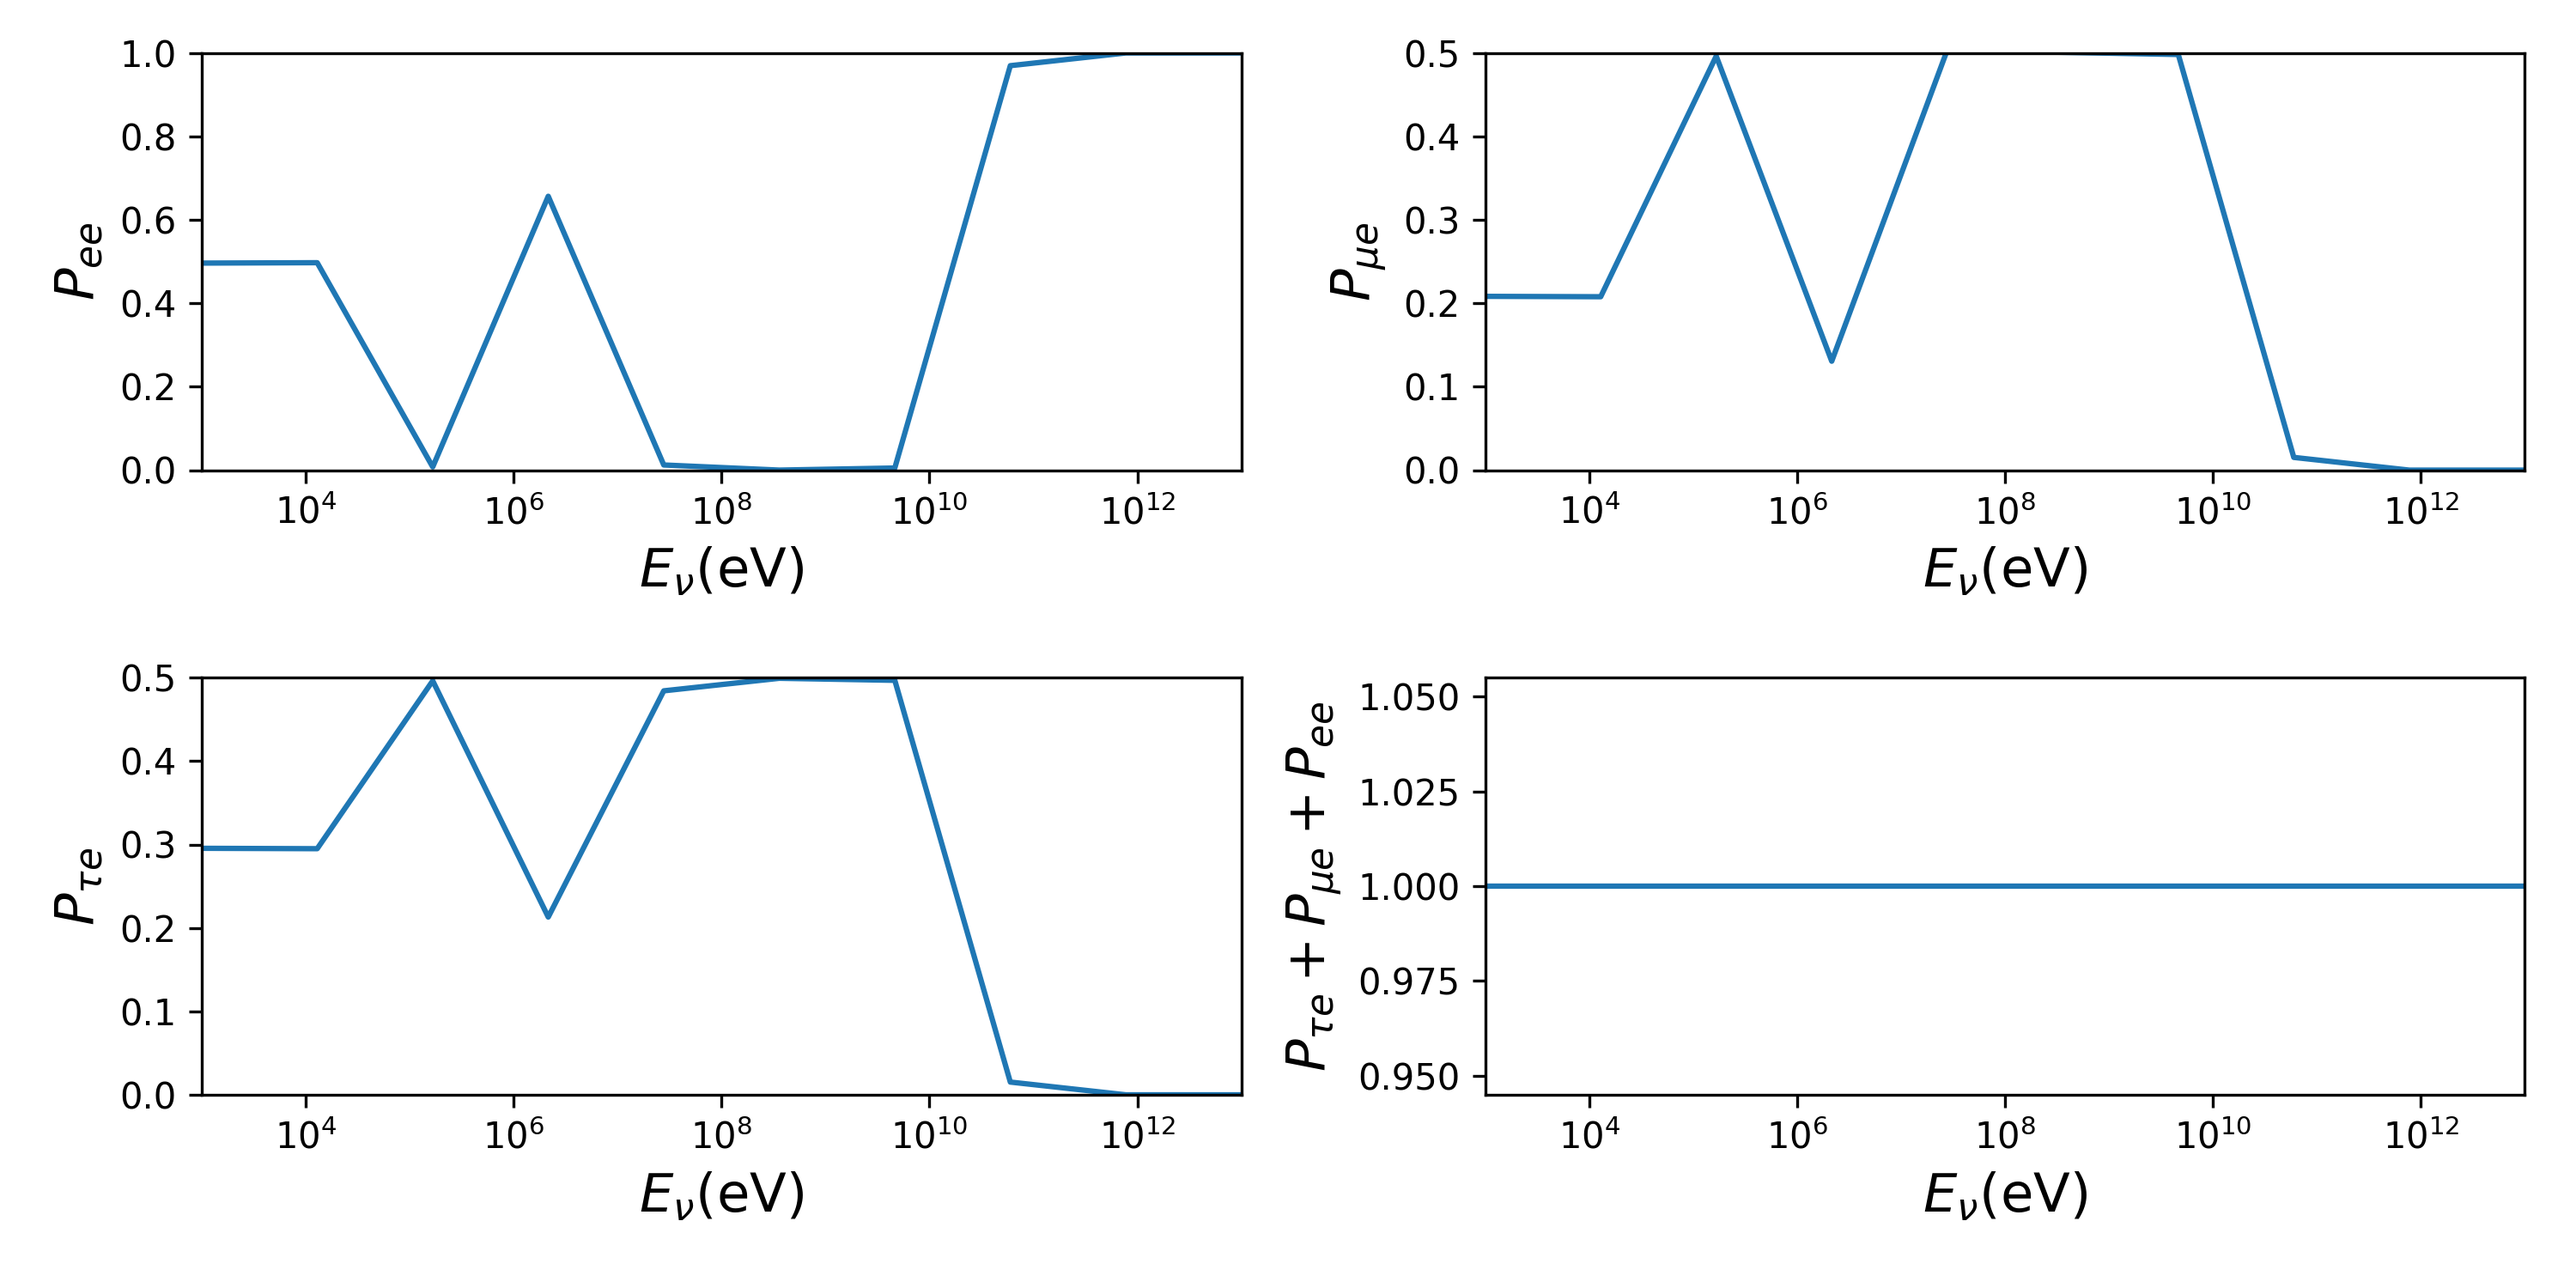
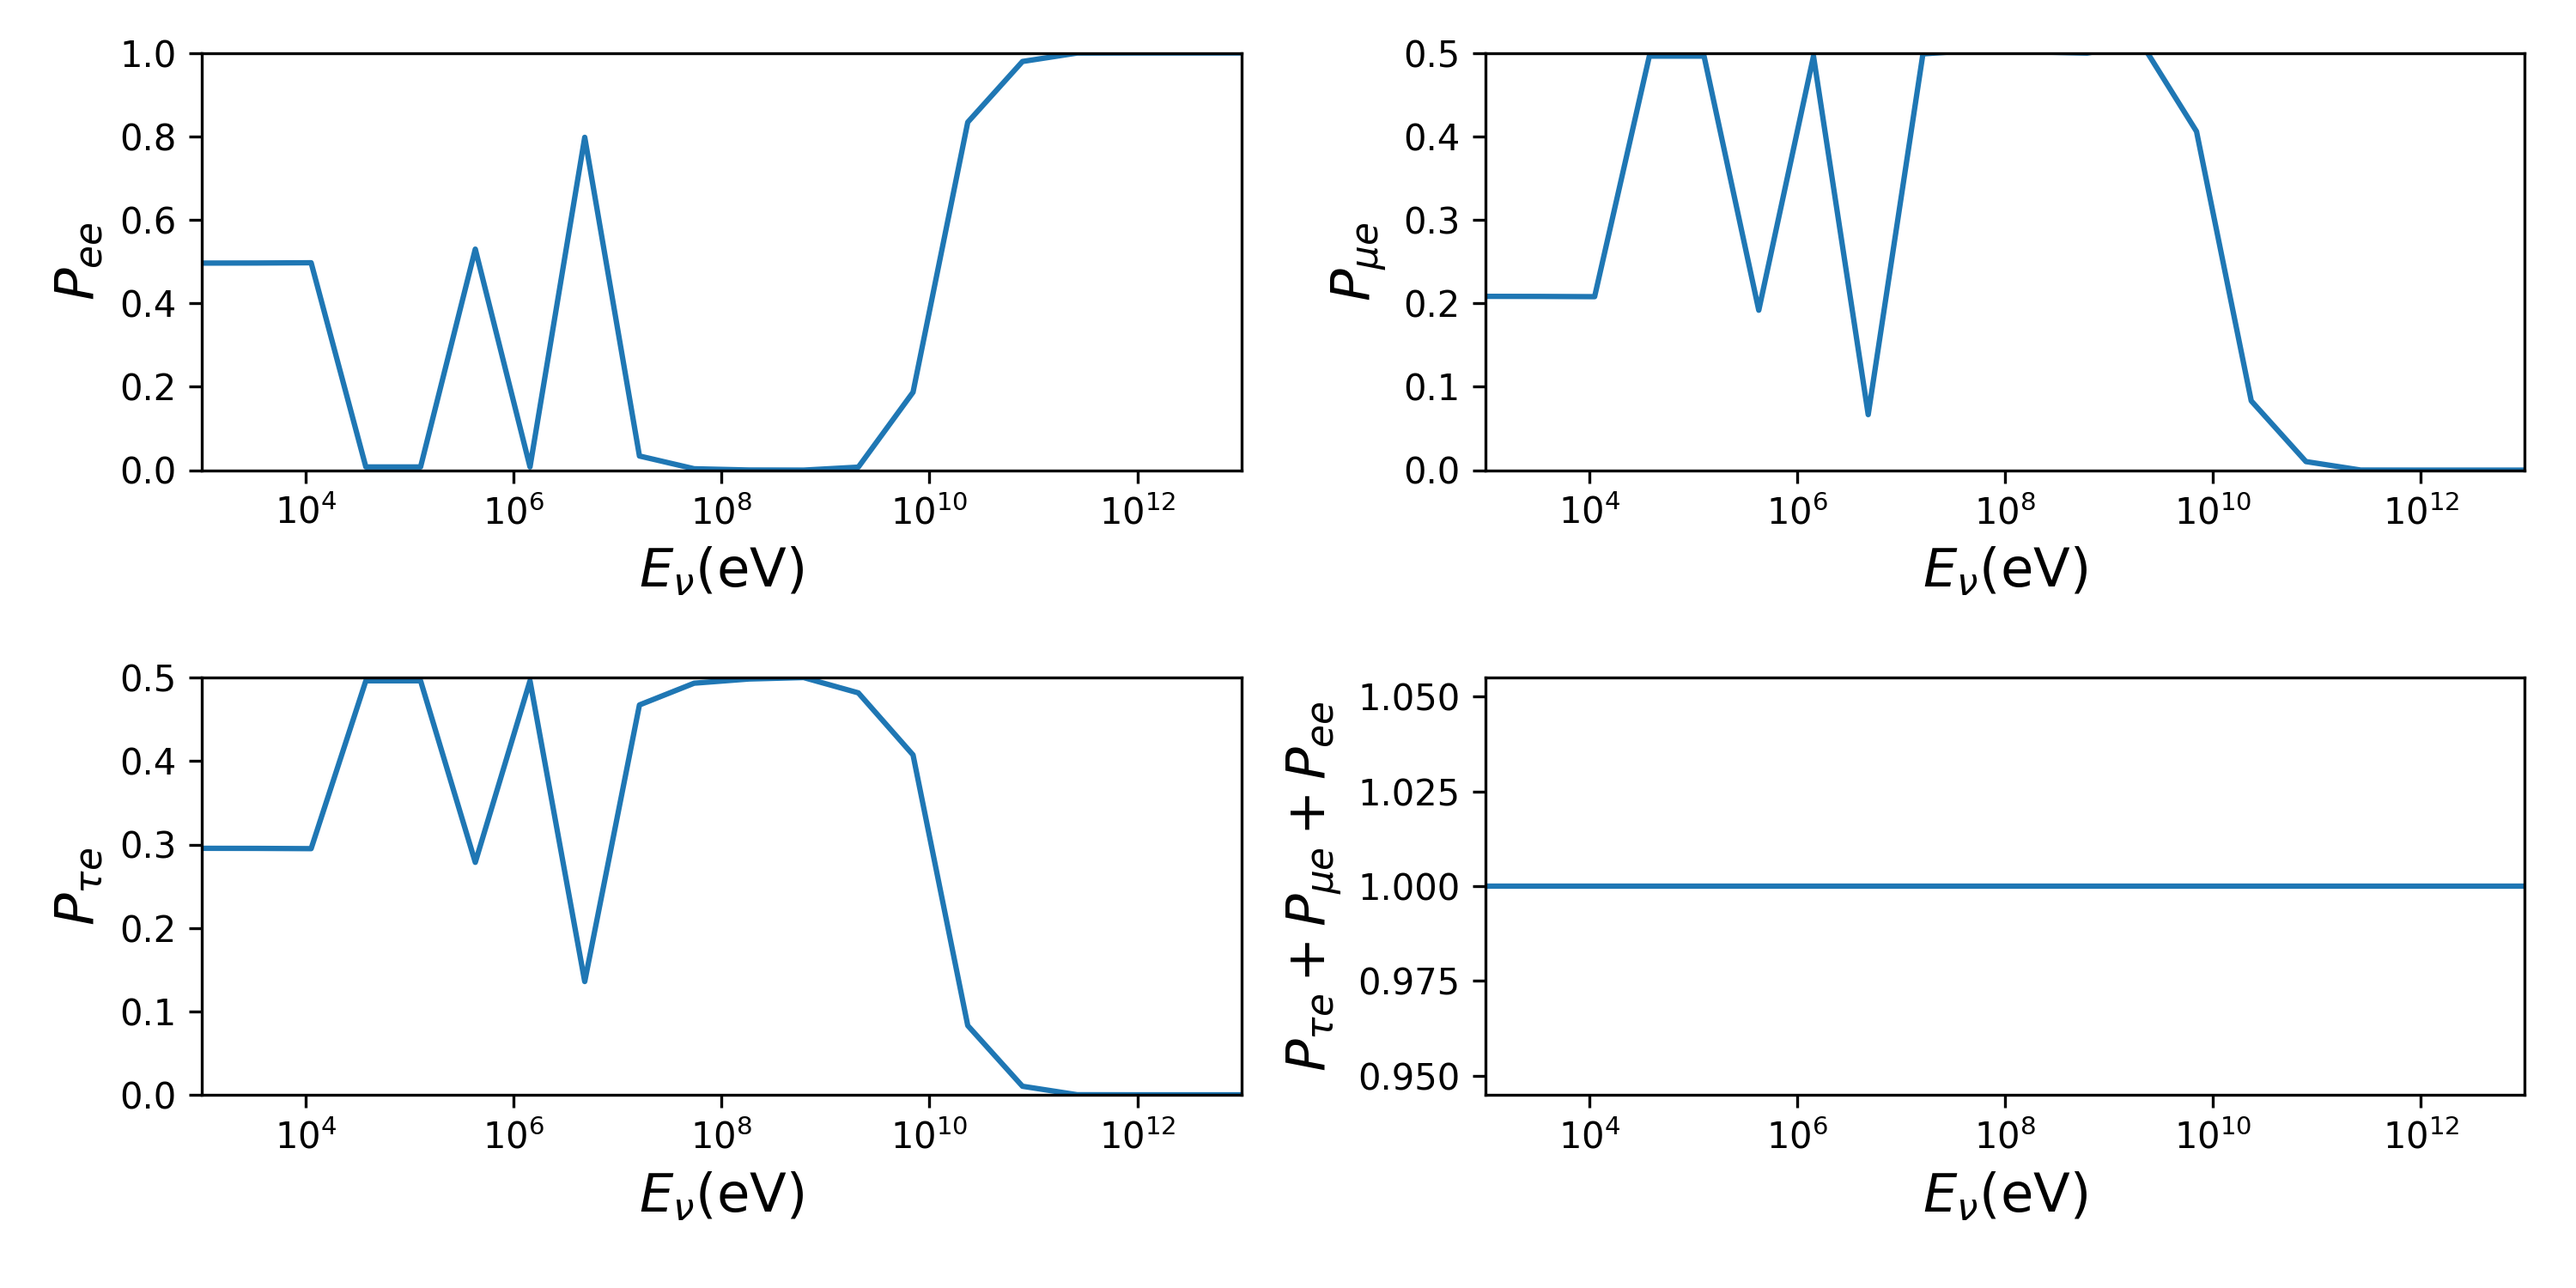
update readme

diff --git a/uandino_py/uandino.py b/uandino_py/uandino.py
@@ -182,8 +182,8 @@ def calculateProbabilities():
         coord_init =0. #km
         coord_end = 6.957e5 #km
     
-    N =10 #energy steps
-    Steps = 10000 #spatial steps
+    N =20 #energy steps
+    Steps = 20000 #spatial steps
     step_len = np.abs(coord_end-coord_init)/Steps
     
     EnergyLins = np.logspace(3, 13, N)

diff --git a/README.md b/README.md
@@ -8,11 +8,15 @@ This program is based on the calculations done by Ohlsson and Snellman in
 It also relies on GSL library.
 
 2. *Galassi, M., Davies, J., Theiler, J., Gough, B., Jungman, G., Alken, P., … Ulerich, R. (2017). GNU Scientific Library Release 2.4. Retrieved from https://www.gnu.org/software/gsl/doc/latex/gsl-ref.pdf*
+
+Solar neutrino oscillations reference is
+
+3. *Kuo, T. ., & Pantaleone, J. (1989). Neutrino oscillations in matter. Reviews of Modern Physics, 61(October), 937–979. https://doi.org/https://doi.org/10.1103/RevModPhys.61.937*
 ## Version
 
 + uandino_v01: Reproduces figures 1-5 from reference 1.
 + uandino_v02: Reproduces *all* figures of reference 1. Need A LOT (100k) steps to converge to a solution for figure 8, thus, it takes a lot of time.
-+ uandino_py: Python implementation of the algorithm. Converges, with less steps, to the same result as v02 (1k). But still takes a lot of time to do so.
++ uandino_py: Python implementation of the algorithm. Converges, with less steps, to the same result as v02 (1k). But still takes a lot of time to do so. This implementation seems to be able to reproduce the solar neutrino oscillations from reference 3, but 10k steps have to be used wiith just 10 energies.
 + uandino_m: Matlab implementation. VERY fast but extremely sensitive to numerical errors, specially regarding the neutrino energy, it breaks fast at low energies.
 
 The key to convergence is apparently the step length, the smaller the better. This means using more steps to cover a given distance and, therefore, more computing time. This should be a problem noticeable in large distances such as the solar radius, but maybe not in the Earth's diameter.
